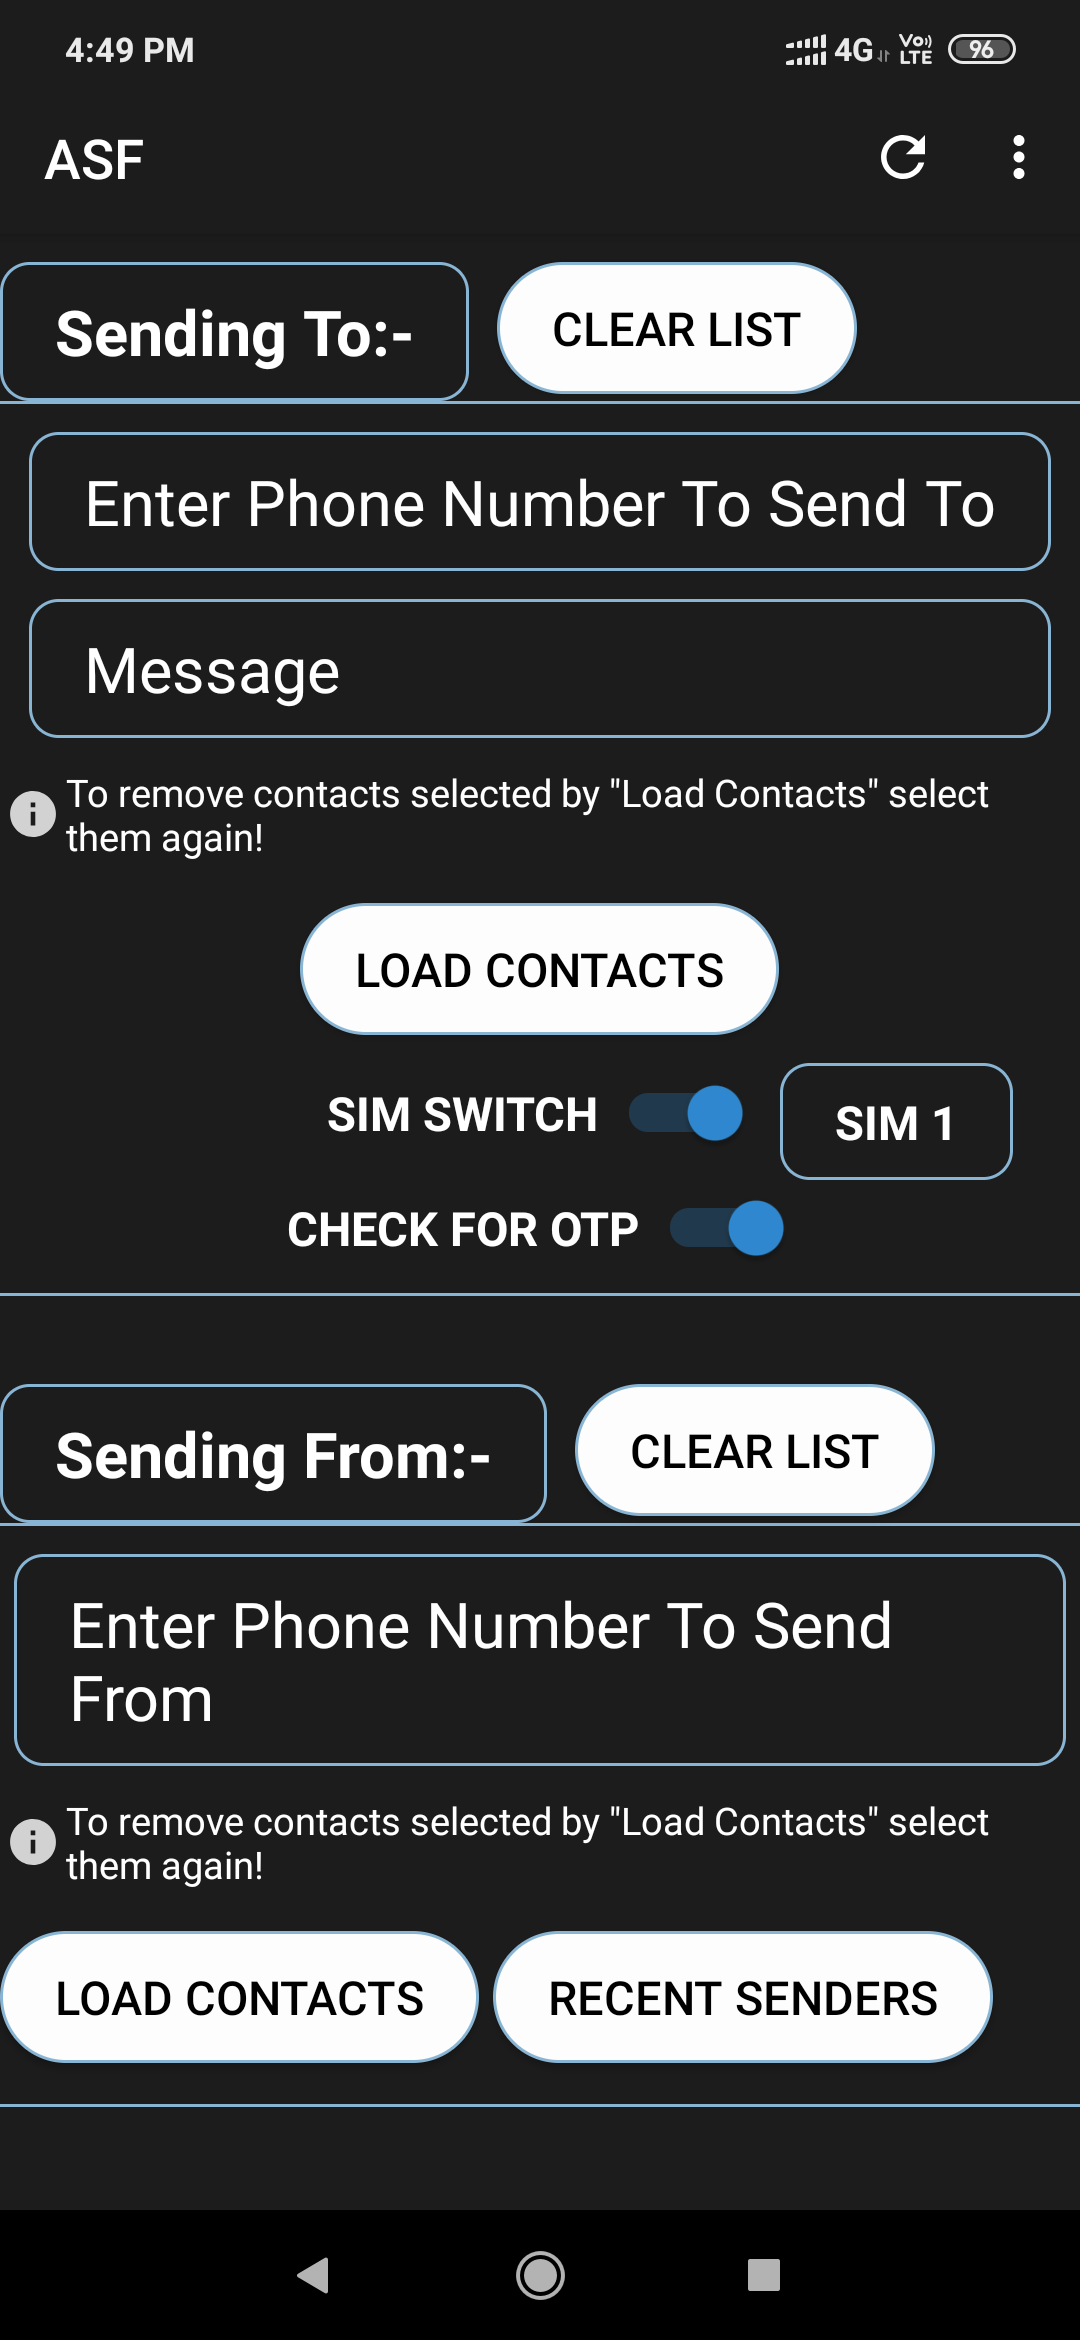
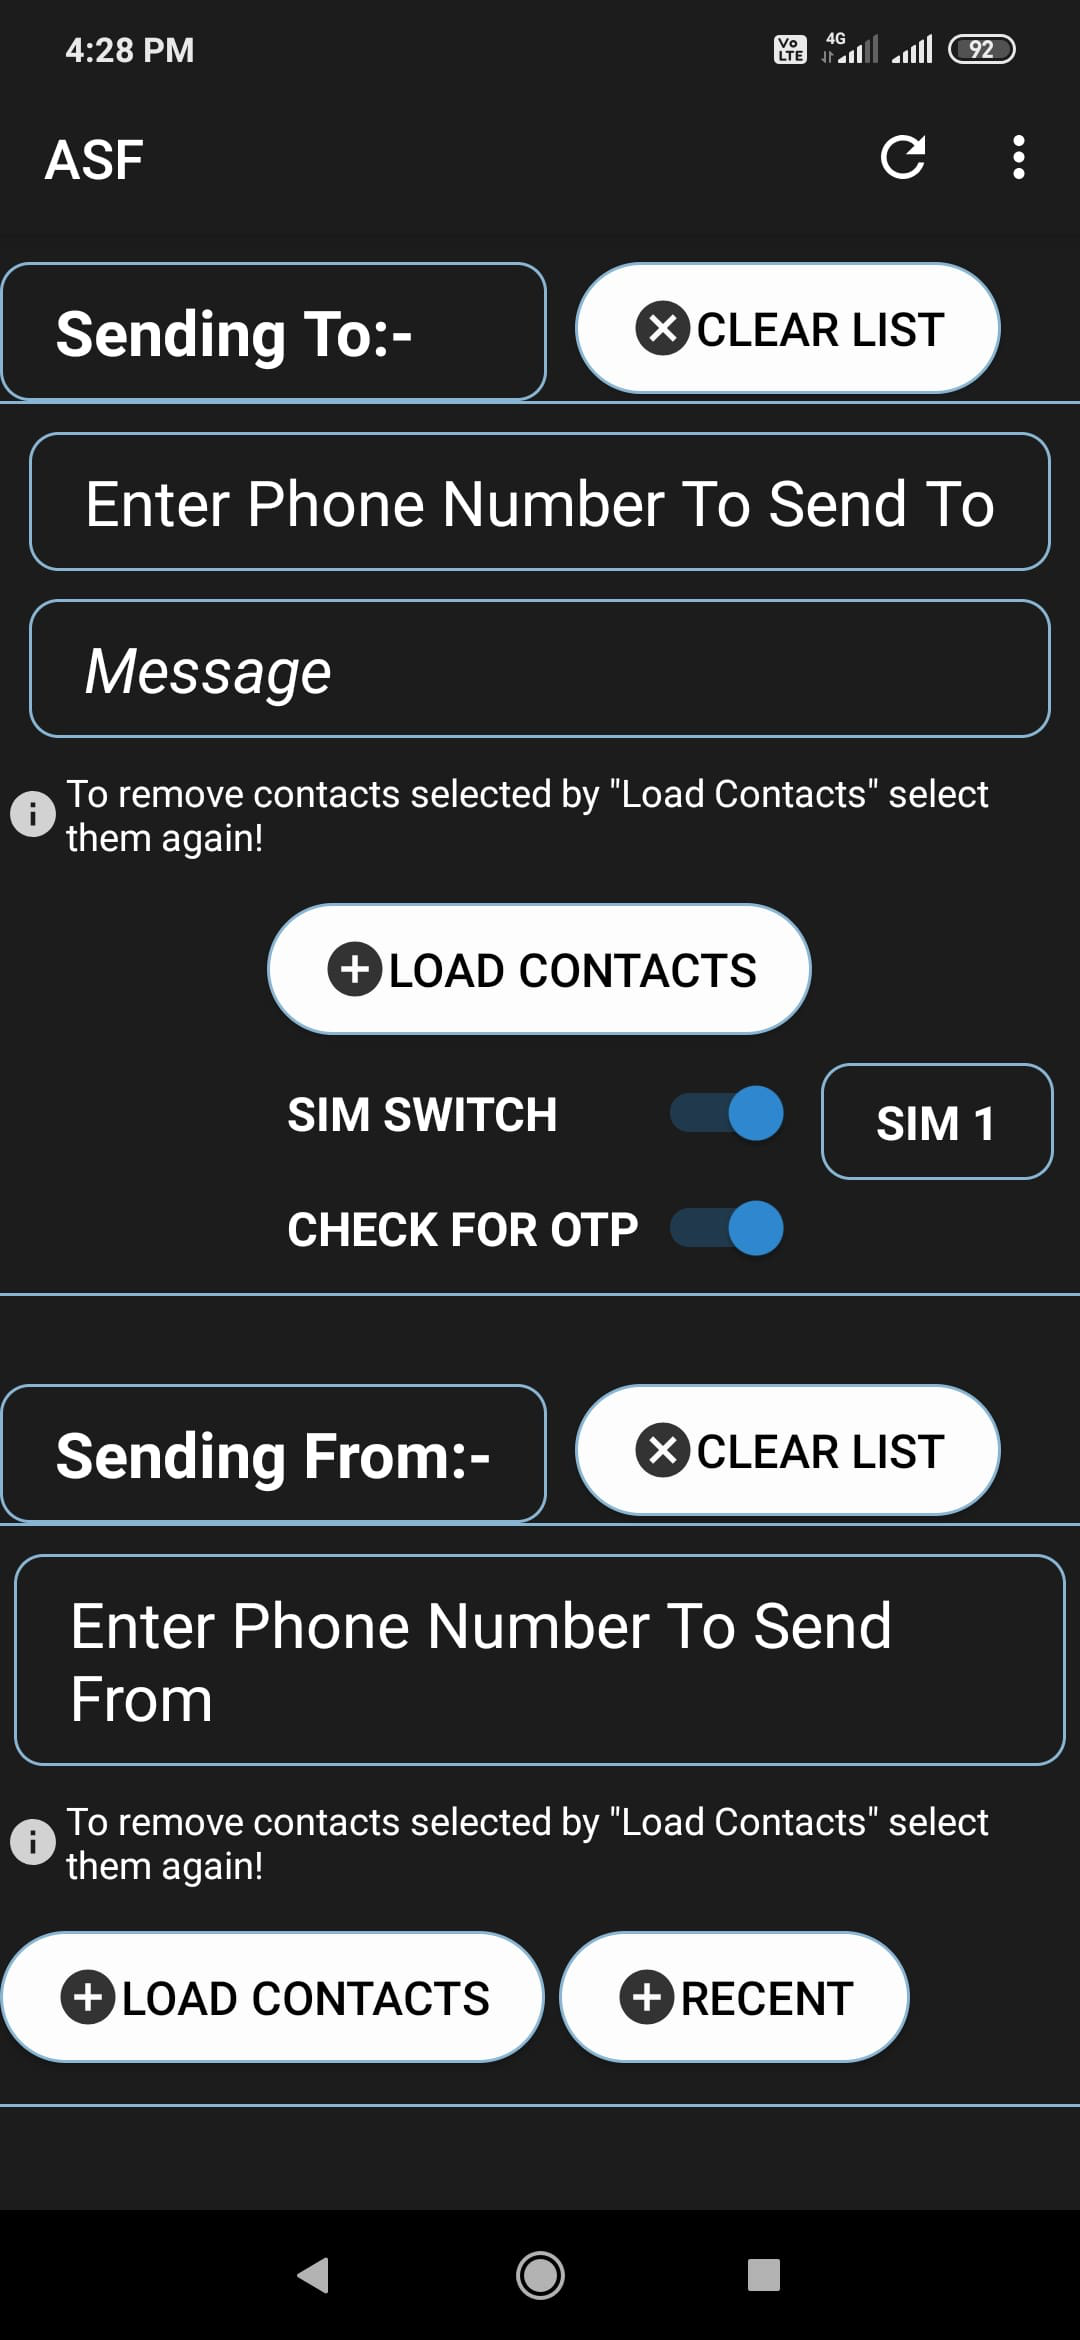
Preliminary changes to settings page

diff --git a/app/src/main/java/com/hfad/smstest/recentSMS.java b/app/src/main/java/com/hfad/smstest/recentSMS.java
@@ -3,6 +3,7 @@ package com.hfad.smstest;
 import android.content.Intent;
 import android.database.Cursor;
 import android.graphics.Color;
+import android.graphics.PorterDuff;
 import android.graphics.drawable.ColorDrawable;
 import android.net.Uri;
 import android.os.AsyncTask;
@@ -18,21 +19,19 @@ import android.widget.AdapterView;
 import android.widget.Button;
 import android.widget.ListView;
 import android.widget.RelativeLayout;
-
 import java.util.ArrayList;
 
 
 public class recentSMS extends AppCompatActivity {
     //LinkedList<String> senderList = new LinkedList<String>();
     ArrayList<DataModel> senderList=new ArrayList<DataModel>();
-    ArrayList<String> setno=new ArrayList<String>();
     ListView listView;
-    int c;
     String simStat,oTpFlag,sndlist,phno;
     DataModel temp1;
     private RelativeLayout mRelativeLayout;
     private CustomAdapter arrayAdapter;
     ActionBar actBar;
+    Button doneButton;
 
     @Override
     protected void onCreate(Bundle savedInstanceState) {
@@ -40,7 +39,12 @@ public class recentSMS extends AppCompatActivity {
        // requestWindowFeature(Window.FEATURE_NO_TITLE);
         //getSupportActionBar().hide();
         actBar=getSupportActionBar();
-        actBar.setBackgroundDrawable(new ColorDrawable(Color.parseColor("#1D1C1C")));
+        try {
+            actBar.setBackgroundDrawable(new ColorDrawable(Color.parseColor("#1D1C1C")));
+        }
+        catch (Exception e){
+            Log.e("onCreate: ", e.toString());
+        }
         Window window = recentSMS.this.getWindow();
         window.addFlags(WindowManager.LayoutParams.FLAG_DRAWS_SYSTEM_BAR_BACKGROUNDS);
         window.clearFlags(WindowManager.LayoutParams.FLAG_TRANSLUCENT_STATUS);
@@ -50,7 +54,6 @@ public class recentSMS extends AppCompatActivity {
         mRelativeLayout.setVisibility(View.VISIBLE);
         new PrepareData().execute();
     }
-
 
     @Override
     public void onBackPressed() {
@@ -180,15 +183,19 @@ public class recentSMS extends AppCompatActivity {
             listView = (ListView) findViewById(R.id.listview);
             arrayAdapter = new CustomAdapter(senderList, getApplicationContext());
             listView.setAdapter(arrayAdapter);
-            /*listView.setChoiceMode(ListView.CHOICE_MODE_MULTIPLE);
-            listView.setItemsCanFocus(false);*/
             final TinyDB tinydb = new TinyDB(getApplicationContext());
+            doneButton=(Button)findViewById(R.id.doneButton);
+            doneButton.setEnabled(false);
+            doneButton.getBackground().setColorFilter(Color.GRAY, PorterDuff.Mode.MULTIPLY);
 
             listView.setOnItemClickListener(new AdapterView.OnItemClickListener() {
 
                 @Override
                 public void onItemClick(AdapterView<?> parent, View view, int position, long id) {
                     temp1 = senderList.get(position);
+                    doneButton = (Button) findViewById(R.id.doneButton);
+                    doneButton.setEnabled(true);
+                    doneButton.getBackground().setColorFilter(null);
                     DataModel dataModel= senderList.get(position);
                     dataModel.checked = !dataModel.checked;
                     arrayAdapter.notifyDataSetChanged();
@@ -196,7 +203,6 @@ public class recentSMS extends AppCompatActivity {
                     final ArrayList<String> selectedContacts=new ArrayList<>();
                     final Intent myIntent = new Intent(getBaseContext(), MainActivity.class);
                     final Bundle extras = new Bundle();
-                    Button doneButton = (Button) findViewById(R.id.doneButton);
                     doneButton.setOnClickListener(new View.OnClickListener() {
                         @Override
                         public void onClick(View v) {

diff --git a/app/src/main/java/com/hfad/smstest/MainActivity.java b/app/src/main/java/com/hfad/smstest/MainActivity.java
@@ -1,4 +1,5 @@
 package com.hfad.smstest;
+
 import android.annotation.SuppressLint;
 import android.app.Activity;
 import android.content.Context;
@@ -64,7 +65,7 @@ public class MainActivity extends AppCompatActivity {
     public static int ldSendersFlag=0;
     Switch sb,sc;
     TextView sim;
-    int simNum,otp_flag;
+    static int simNum,otp_flag;
     SharedPreferences prefs;
 
     public String makenum(String s)
@@ -240,7 +241,9 @@ public class MainActivity extends AppCompatActivity {
         sendList=(TextView)findViewById(R.id.sentList);
         sentFrom=(TextView)findViewById(R.id.sentFrom);
         clearSendFromList=(Button)findViewById(R.id.clearSendFromList);
+       // clearSendFromList.setCompoundDrawablesWithIntrinsicBounds(R.drawable.ic_clear_custom, 0, 0, 0);
         clearSendToList=(Button)findViewById(R.id.clearSendToList);
+       // clearSendToList.setCompoundDrawablesWithIntrinsicBounds(R.drawable.ic_clear_custom, 0, 0, 0);
         Intent startBgSMS = new Intent(MainActivity.this, SMSBackgroundService.class);
         stopService(startBgSMS);
         final TinyDB tinydb = new TinyDB(getApplicationContext());
@@ -396,7 +399,7 @@ public class MainActivity extends AppCompatActivity {
         sb.setTextOn("SIM 1");
         sc=(Switch) findViewById(R.id.otp_switch);
         prefs = getSharedPreferences("com.hfad.smstest", 0);
-        String simVariable = prefs.getString("simSubID", "SIM 1");
+        final String simVariable = prefs.getString("simSubID", "SIM 1");
         String checkOTP= prefs.getString("checkForOtp","0");
         Log.e("sim id", simVariable);
 
@@ -784,6 +787,10 @@ public class MainActivity extends AppCompatActivity {
                 d.show();
                 ((TextView)d.findViewById(android.R.id.message)).setMovementMethod(LinkMovementMethod.getInstance()); //only for URL handling
                 return true;
+            case R.id.item3:
+                Intent newIntent = new Intent(getBaseContext(),   settings.class);
+                startActivity(newIntent);
+
             default:
                 return super.onOptionsItemSelected(item);
         }

diff --git a/app/src/main/java/com/hfad/smstest/settings.java b/app/src/main/java/com/hfad/smstest/settings.java
@@ -1,0 +1,45 @@
+package com.hfad.smstest;
+
+import android.graphics.Color;
+import android.graphics.drawable.ColorDrawable;
+import android.os.Bundle;
+import android.support.v4.app.NavUtils;
+import android.support.v4.content.ContextCompat;
+import android.support.v7.app.ActionBar;
+import android.support.v7.app.AppCompatActivity;
+import android.view.MenuItem;
+import android.view.Window;
+import android.view.WindowManager;
+
+
+public class settings extends AppCompatActivity {
+    ActionBar actBar;
+    @Override
+    protected void onCreate(Bundle savedInstanceState) {
+        super.onCreate(savedInstanceState);
+        // requestWindowFeature(Window.FEATURE_NO_TITLE);
+        //getSupportActionBar().hide();
+        setContentView(R.layout.activity_settings);
+        actBar=getSupportActionBar();
+        actBar.setBackgroundDrawable(new ColorDrawable(Color.parseColor("#1D1C1C")));
+        actBar.setDisplayHomeAsUpEnabled(true);
+        Window window = settings.this.getWindow();
+        window.addFlags(WindowManager.LayoutParams.FLAG_DRAWS_SYSTEM_BAR_BACKGROUNDS);
+        window.clearFlags(WindowManager.LayoutParams.FLAG_TRANSLUCENT_STATUS);
+        window.setStatusBarColor(ContextCompat.getColor(settings.this, R.color.stat_colour));
+    }
+    @Override
+    public boolean onOptionsItemSelected(MenuItem item) {
+        int id = item.getItemId();
+        if (id == android.R.id.home) {
+            NavUtils.navigateUpFromSameTask(this);
+        }
+        return super.onOptionsItemSelected(item);
+    }
+
+
+
+    }
+
+
+
